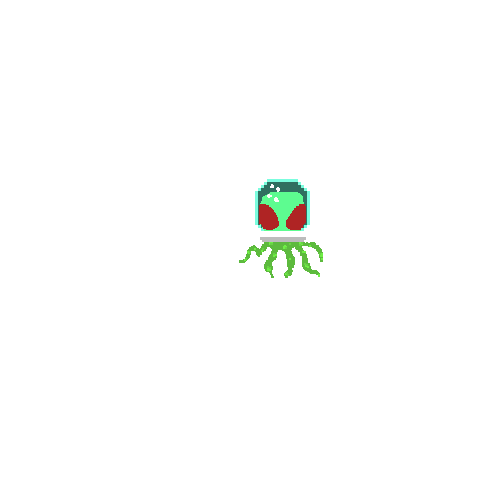
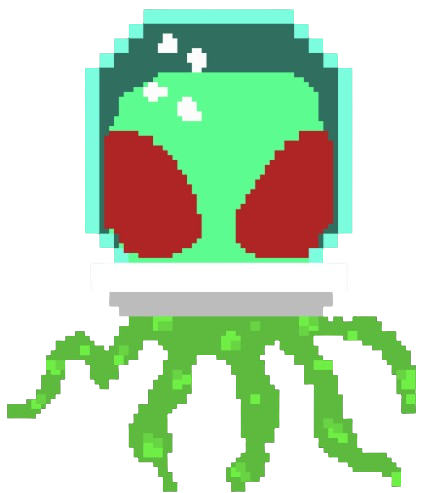
fix: change res into better ones

diff --git a/src/object/EnemySpaceship.java b/src/object/EnemySpaceship.java
@@ -1,0 +1,148 @@
+package object;
+
+import core.FPS;
+import core.Timer;
+import core.Window;
+import render.Renderable;
+import render.Renderer;
+import update.Updatable;
+import update.Updater;
+
+import javax.imageio.ImageIO;
+import java.awt.image.BufferedImage;
+import java.io.File;
+import java.io.IOException;
+import java.util.Random;
+
+public class EnemySpaceship implements Renderable, Updatable {
+    private static double width = 60;
+    private static double height = 60;
+    private double x;
+    private double y;
+
+    private final int layer = 2;
+
+    private static BufferedImage enemyShip;
+
+    private double speed = 100;
+    private double direction = 1; // 1 for right, -1 for left
+    private int movementPattern;
+    private double originalX;
+    private double oscillationTime = 0;
+
+    private static int shootTimerMillis = 1000;
+    Timer shootTimer = new Timer(shootTimerMillis);
+
+    Random rand = new Random();
+
+    public EnemySpaceship() throws IOException {
+        // Random spawn position at top of screen
+        this.x = rand.nextInt((int)(Window.getWinWidth() - width));
+        this.y = -height;
+        this.originalX = x;
+        
+        // Random movement pattern (0: straight down, 1: zigzag, 2: sine wave)
+        this.movementPattern = rand.nextInt(3);
+
+        enemyShip = ImageIO.read(new File("res/Enemy.png"));
+        Renderer.addRenderableObject(this);
+        Updater.addUpdatableObjects(this);
+    }
+
+    @Override
+    public int getLayer() {
+        return layer;
+    }
+
+    @Override
+    public double getX() {
+        return x;
+    }
+
+    @Override
+    public double getY() {
+        return y;
+    }
+
+    @Override
+    public double getWidth() {
+        return width;
+    }
+
+    @Override
+    public double getHeight() {
+        return height;
+    }
+
+    @Override
+    public boolean drawCollisionBox() {
+        return true;
+    }
+
+    @Override
+    public BufferedImage getBufferedImage() {
+        return enemyShip;
+    }
+
+    @Override
+    public void update() throws IOException {
+        // Movement patterns
+        switch (movementPattern) {
+            case 0: // Straight down
+                y += speed * FPS.getDeltaTime();
+                break;
+                
+            case 1: // Zigzag pattern
+                y += speed * FPS.getDeltaTime();
+                x += direction * speed * 0.5 * FPS.getDeltaTime();
+                
+                // Change direction when hitting screen edges
+                if (x <= 0 || x >= Window.getWinWidth() - width) {
+                    direction *= -1;
+                }
+                break;
+                
+            case 2: // Sine wave pattern
+                y += speed * FPS.getDeltaTime();
+                oscillationTime += FPS.getDeltaTime();
+                x = originalX + Math.sin(oscillationTime * 3) * 100;
+                
+                // Keep within screen bounds
+                if (x < 0) x = 0;
+                if (x > Window.getWinWidth() - width) x = Window.getWinWidth() - width;
+                break;
+        }
+
+        // Shooting logic
+        if (shootTimer.isRinging() && y > 0 && y < Window.getWinHeight() - 100) {
+            new EnemyBullet(x + (getWidth() / 2), y + getHeight());
+            shootTimer.resetTimer();
+        }
+
+        // Remove if off screen
+        if (y >= Window.getWinHeight() + height) {
+            Updater.removeUpdatable(this);
+            Renderer.removeRenderableObject(this);
+        }
+
+        // Check collision with player bullets
+        Updatable collidingBullet = isColliding(this, "bullet");
+        if (collidingBullet != null) {
+            Updater.removeUpdatable(this);
+            Renderer.removeRenderableObject(this);
+            
+            Updater.removeUpdatable(collidingBullet);
+            Renderer.removeRenderableObject(collidingBullet.getRenderable());
+        }
+    }
+
+    @Override
+    public String getID() {
+        return "enemy";
+    }
+
+    @Override
+    public Renderable getRenderable() {
+        return this;
+    }
+}

diff --git a/src/object/EnemyBullet.java b/src/object/EnemyBullet.java
@@ -1,0 +1,111 @@
+package object;
+
+import core.FPS;
+import core.Sound;
+import core.Window;
+import render.Renderable;
+import render.Renderer;
+import update.Updatable;
+import update.Updater;
+
+import javax.imageio.ImageIO;
+import javax.sound.sampled.LineUnavailableException;
+import javax.sound.sampled.UnsupportedAudioFileException;
+import java.awt.image.BufferedImage;
+import java.io.File;
+import java.io.IOException;
+
+public class EnemyBullet implements Updatable, Renderable {
+    private static double width = 20;
+    private static double height = 20;
+    private double x;
+    private double y;
+
+    private final int layer = 1;
+
+    private static BufferedImage enemyBullet;
+
+    private static double speed = 300;
+
+    public EnemyBullet(double x, double y) throws IOException {
+        this.x = x - (getWidth() / 2);
+        this.y = y;
+
+        enemyBullet = ImageIO.read(new File("res/EnemyBullet.png"));
+
+        Renderer.addRenderableObject(this);
+        Updater.addUpdatableObjects(this);
+    }
+
+    @Override
+    public int getLayer() {
+        return layer;
+    }
+
+    @Override
+    public double getX() {
+        return x;
+    }
+
+    @Override
+    public double getY() {
+        return y;
+    }
+
+    @Override
+    public double getWidth() {
+        return width;
+    }
+
+    @Override
+    public double getHeight() {
+        return height;
+    }
+
+    @Override
+    public boolean drawCollisionBox() {
+        return true;
+    }
+
+    @Override
+    public BufferedImage getBufferedImage() {
+        return enemyBullet;
+    }
+
+    @Override
+    public void update() throws IOException, UnsupportedAudioFileException, LineUnavailableException {
+        y += speed * FPS.getDeltaTime(); // Move downward
+        
+        // Remove if off screen
+        if (y > Window.getWinHeight() + getHeight()) {
+            Updater.removeUpdatable(this);
+            Renderer.removeRenderableObject(this);
+        }
+
+        // Check collision with player spaceship
+        Updatable collidingObject = isColliding(this, "spaceship");
+        if (collidingObject != null) {
+            // Game Over - remove both objects
+            Updater.removeUpdatable(this);
+            Renderer.removeRenderableObject(this);
+
+            Updater.removeUpdatable(collidingObject);
+            Renderer.removeRenderableObject(collidingObject.getRenderable());
+
+            Sound.playSound("res/crushed.wav");
+            
+            // You can add game over logic here
+            System.out.println("Game Over! Enemy bullet hit the player!");
+        }
+    }
+
+    @Override
+    public String getID() {
+        return "enemyBullet";
+    }
+
+    @Override
+    public Renderable getRenderable() {
+        return this;
+    }
+}

diff --git a/src/core/Entry.java b/src/core/Entry.java
@@ -1,13 +1,13 @@
 package core;
 
+import javax.sound.sampled.LineUnavailableException;
+import javax.sound.sampled.UnsupportedAudioFileException;
 import object.AsteroidSpawner;
 import object.Background;
+import object.EnemySpawner;
 import object.Spaceship;
 import render.Renderer;
 import update.Updater;
-
-import javax.sound.sampled.LineUnavailableException;
-import javax.sound.sampled.UnsupportedAudioFileException;
 
 public class Entry {
     public static void main(String[] args) throws Exception, UnsupportedAudioFileException, LineUnavailableException {
@@ -26,6 +26,7 @@ public class Entry {
         new Background(0);
         new Background(-Window.getWinHeight());
         new AsteroidSpawner();
+        new EnemySpawner(); // Add enemy spawner
 
         FPS.calcBeginTime();
         while (runGame) {

diff --git a/src/object/EnemySpawner.java b/src/object/EnemySpawner.java
@@ -6,18 +6,23 @@ import update.Updatable;
 import update.Updater;
 
 import java.io.IOException;
+import java.util.Random;
 
-public class AsteroidSpawner implements Updatable {
-    Timer timer = new Timer(1000);
+public class EnemySpawner implements Updatable {
+    Timer timer = new Timer(3000); // Spawn every 3 seconds
+    Random rand = new Random();
 
-    public AsteroidSpawner() {
+    public EnemySpawner() {
         Updater.addUpdatableObjects(this);
     }
 
     @Override
     public void update() throws IOException {
-        if (timer.isRinging()){
-            new Asteroid();
+        if (timer.isRinging()) {
+            // 70% chance to spawn an enemy
+            if (rand.nextFloat() < 0.7f) {
+                new EnemySpaceship();
+            }
             timer.resetTimer();
         }
     }
